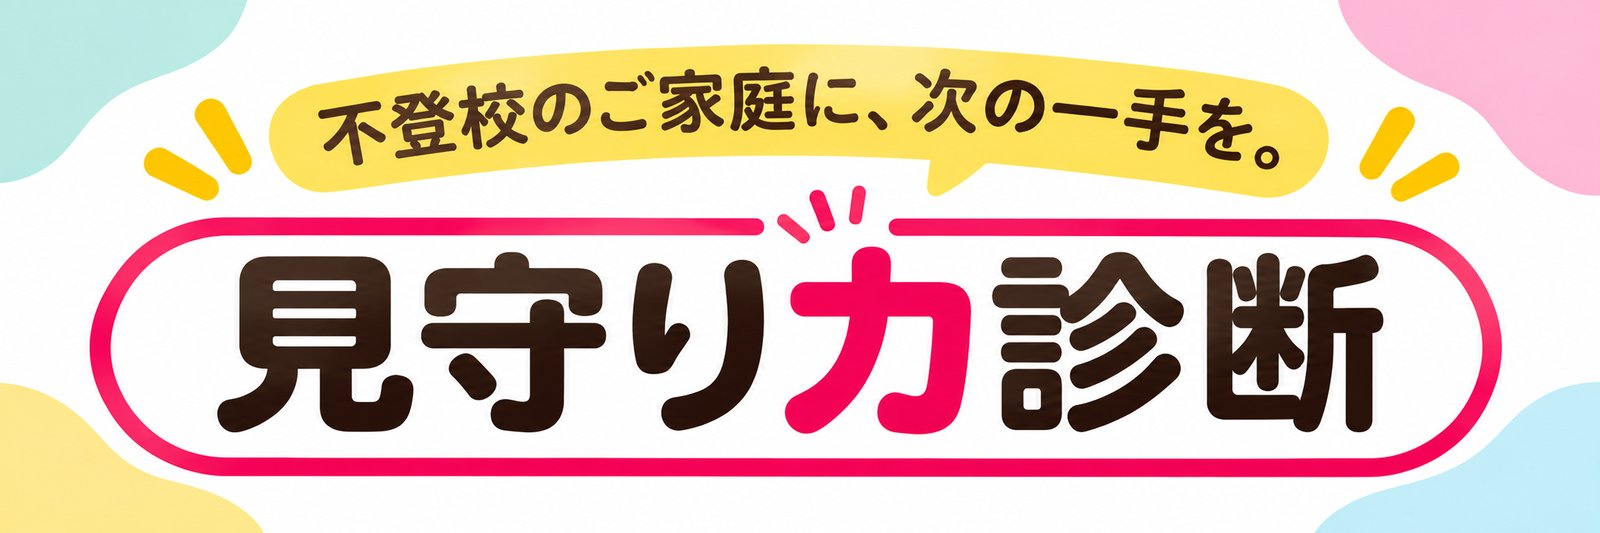
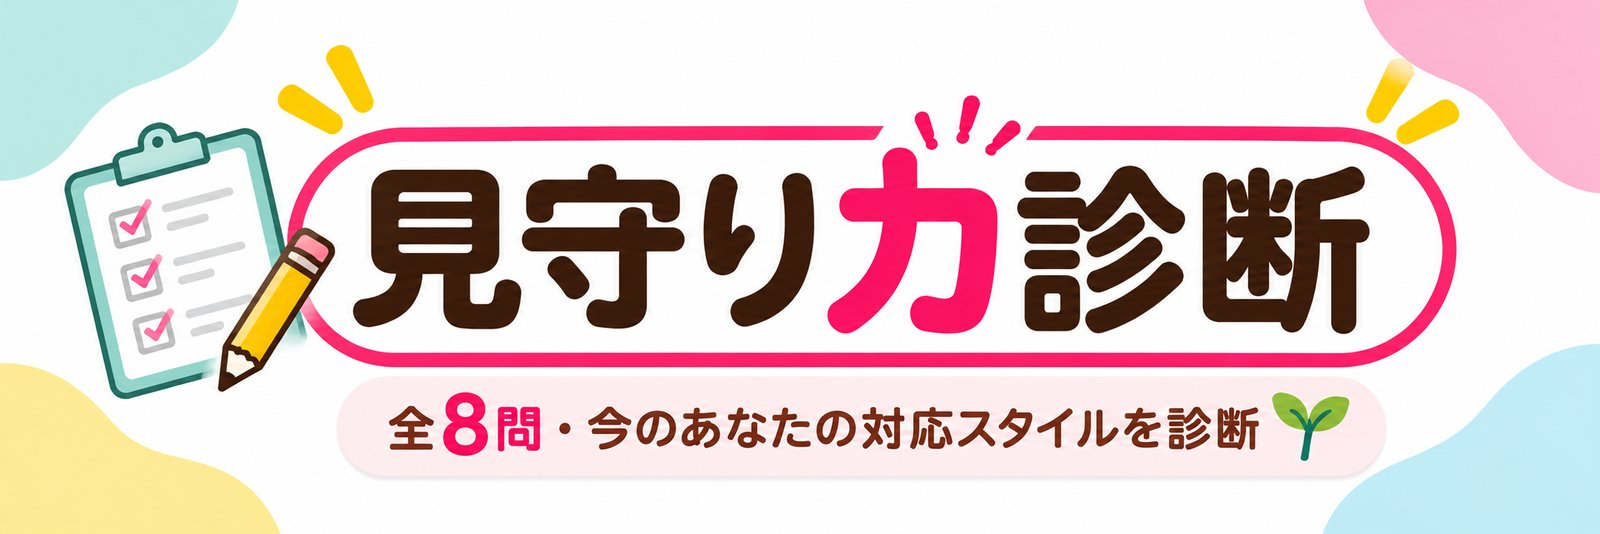
見守り力タイプ診断ページのバナー画像を差し替え
新しいバナー（public/assets/shindan/mimamori-banner.jpg）に置き換え。

Claude-Session: https://claude.ai/code/session_01GrtDLzAppJEJnPqwWn5bqi

diff --git a/app/shindan/mimamori/page.tsx b/app/shindan/mimamori/page.tsx
@@ -48,7 +48,7 @@ export default function MimamoriShindanPage() {
             src="/assets/shindan/mimamori-banner.jpg"
             alt={TITLE}
             width={1600}
-            height={533}
+            height={534}
             style={{ width: '100%', height: 'auto', borderRadius: 12, marginBottom: 14 }}
           />
           <div className="card" style={{ alignItems: 'flex-start', gap: 10 }}>
